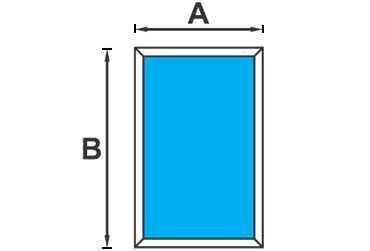
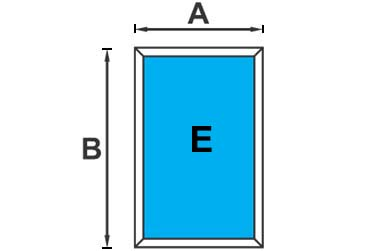
brisanje svega za dugme install 2

Changed region(s): [[0.5054, 0.4741, 0.5946, 0.6135]]

diff --git a/app/page.tsx b/app/page.tsx
@@ -4378,7 +4378,7 @@ return (
 
       {showField(p.vrsta_prozora, "e") && (
         <div>
-          <label className="text-xs font-semibold">{t("E - broj krila")}</label>
+          <label className="text-xs font-semibold">{t("E - broj krila / stakala")}</label>
           <input
             type="number"
             value={p.e || ""}
@@ -4903,7 +4903,7 @@ console.log("SVE VALUTE:", valute);
                             {getVisibleDimensions(p.vrsta_prozora).includes("b") && <div>B={p.b} mm</div>}
                             {getVisibleDimensions(p.vrsta_prozora).includes("c") && <div>C={p.c} mm</div>}
                             {getVisibleDimensions(p.vrsta_prozora).includes("d") && <div>D={p.d} mm</div>}
-                            {getVisibleDimensions(p.vrsta_prozora).includes("e") && <div>E={p.e} {t("krila")}</div>}
+                            {getVisibleDimensions(p.vrsta_prozora).includes("e") && <div>E={p.e} {t("krila / stakala")}</div>}
                           </div>
                         </div>
 
@@ -5240,7 +5240,7 @@ if (requiredDims.includes("e") && !p.e) missing.push("E");
 
           {getVisibleDimensions(p.vrsta_prozora).includes("e") && (
             <div>
-              E = {p.e} {t("krila")}
+              E = {p.e} {t("krila / stakala")}
             </div>
           )}
         </div>
@@ -7521,7 +7521,7 @@ onChange={(e) => setSelectedProfilId(e.target.value)}
       "B - visina",
       "C",
       "D",
-      "E - broj krila",
+      "E - broj krila / stakala",
       "Izaberi ispunu",
       "Izaberi okov",
       "Otvaranje",